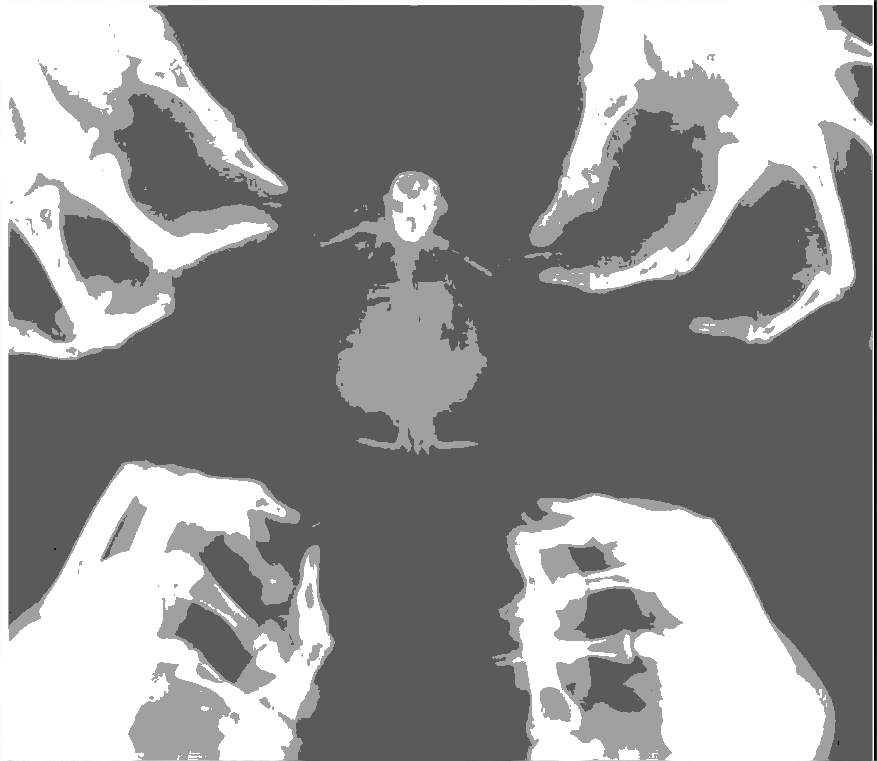
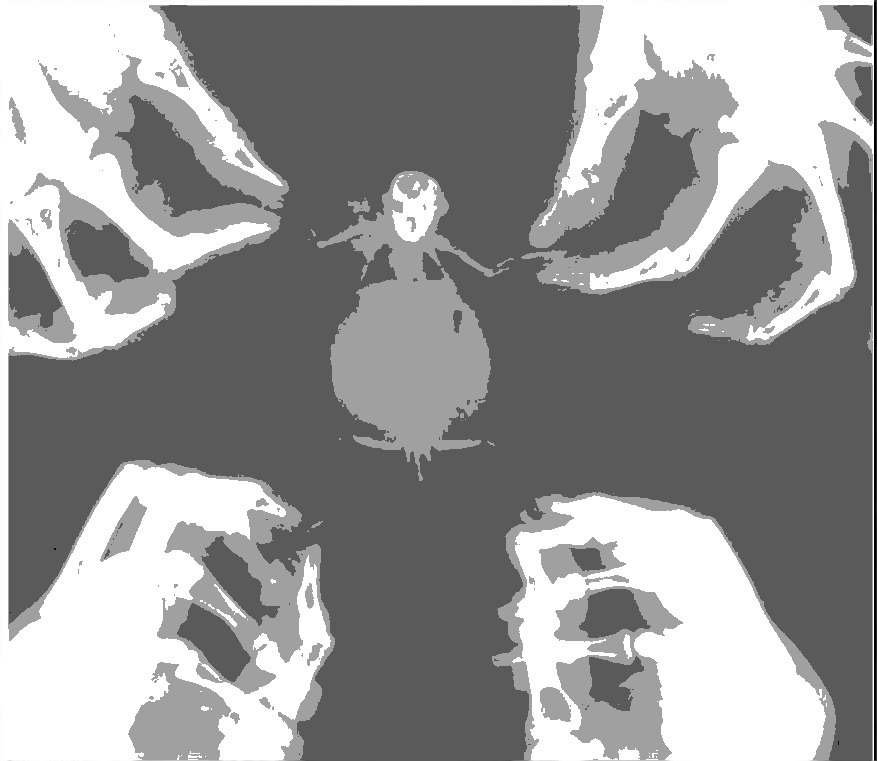
colors

diff --git a/main.c b/main.c
@@ -56,7 +56,7 @@ int main() {
     newImage = color_to_gray(idata, iw, ih, n);
     int t_black = 64;
     int t_white = 191;
-    int t_gray = 128;
+    int t_gray = 120;
     gray_to_bw(newImage, iw, ih, t_black, t_white, t_gray);
    
     char* outputPath = "result.png";
